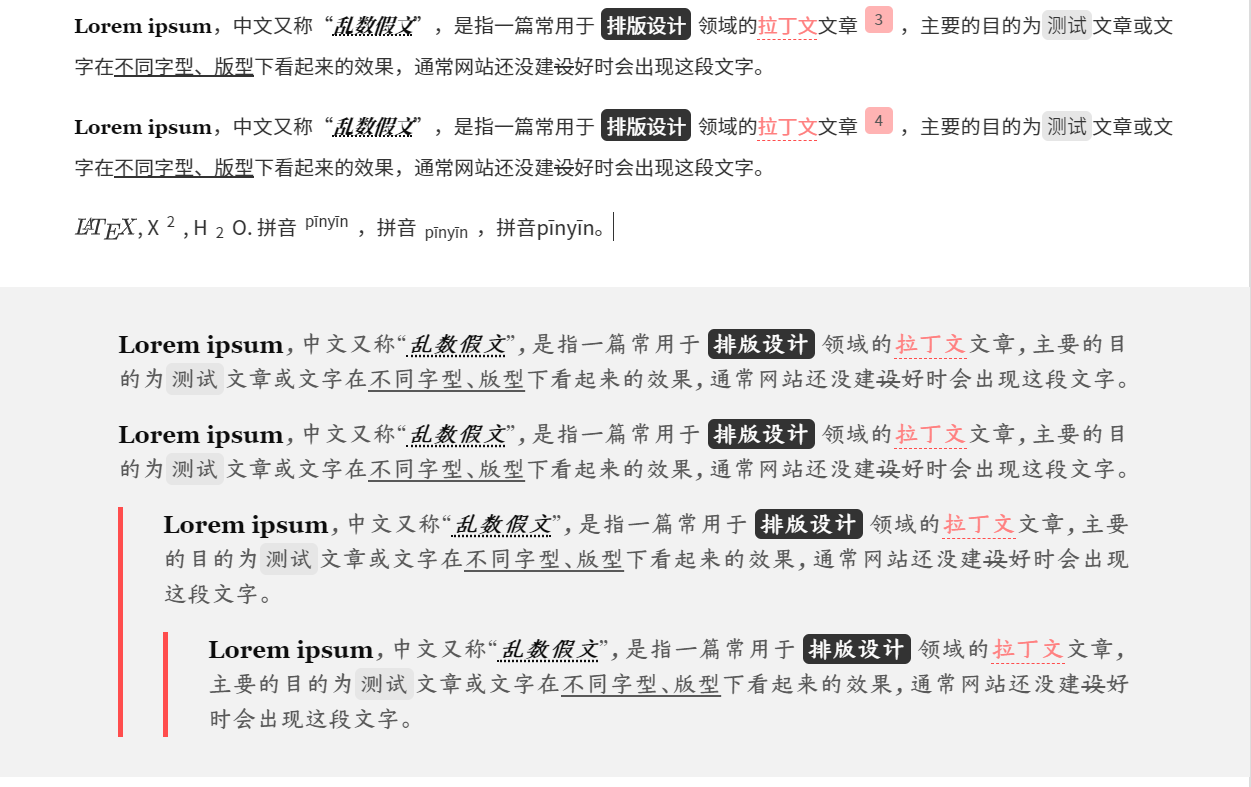
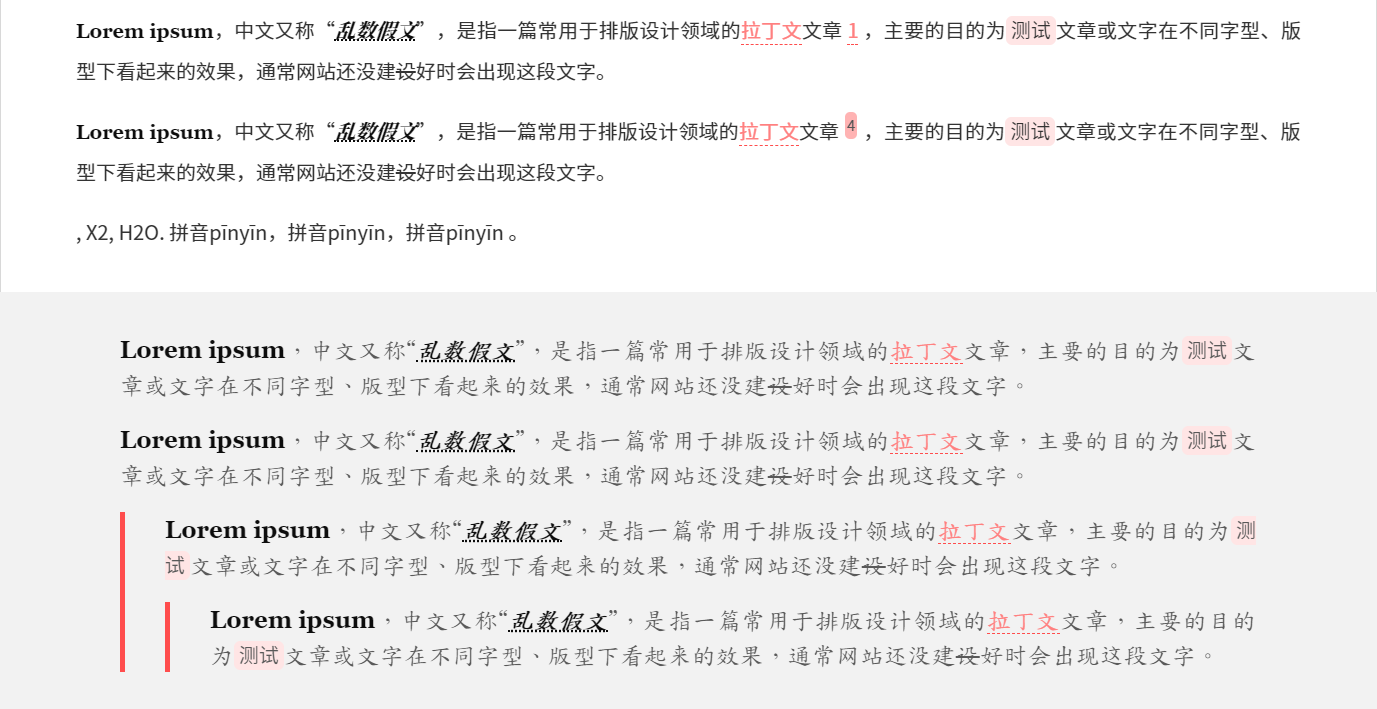
更新说明
✅更新了部分样式（待办事项等）；
✅更新了说明

Changed region(s): [[0.0624, 0.4034, 0.9353, 0.9309], [0.0624, 0.0, 0.9664, 0.3413], [0.9976, 0.0, 1.0, 0.3724]]

diff --git a/autumnus.css b/autumnus.css
@@ -60,7 +60,12 @@
 	--base-borderl: 4px solid hsl(0, 100%, 65%);
 	--base-borderb: 1px dashed hsl(0, 100%, 65%);
 	--opt-borderb: 1px dashed hsl(215, 100%, 65%);
-
+	
+    --box-shadow: 0px 20px 40px 1px hsla(0, 0%, 0%, 0.3);
+    --img-shadow: 0px 20px 40px 1px hsla(0, 0%, 0%, 0.3);
+    --code-shadow: 0px 20px 40px 1px hsla(0, 0%, 0%, 0.3);
+    --quota-shadow: 0px 20px 40px 1px hsla(0, 0%, 0%, 0.3);
+	
 	/* 字体样式援引自 font.css */
 	--base-font: -apple-system, "Noto Sans CJK SC", "Noto Sans", "Helvetica Neue", Helvetica, "Nimbus Sans L", Arial, "Liberation Sans", "Noto Sans CJK SC", "PingFang SC", "Hiragino Sans GB", "Source Han Sans SC", "Source Han Sans CN", "Microsoft YaHei", "Wenquanyi Micro Hei", "WenQuanYi Zen Hei", "ST Heiti", SimHei, "WenQuanYi Zen Hei Sharp", sans-serif;
 
@@ -114,7 +119,7 @@ content {
 /* 目录自动编号 */
 
 .md-toc {
-	font-size: 1rem;
+	font-size: 1.25rem;
 	line-height: 1.5rem;
 	display: table;
 	margin: auto;
@@ -177,7 +182,7 @@ content {
 }
 
 .md-toc-h1 {
-	font: 600 1.25em var(--title-font);
+	font: 600 1.5rem var(--title-font);
 	counter-increment: counter_md-toc-h1;
 	counter-reset: counter_md-toc-h2;
 }
@@ -389,12 +394,12 @@ h6 {
 
 #write h1::before {
 	top: -1.5rem;
-	border-bottom: var(--opt-borderb);
+	border-top: var(--opt-borderb);
 }
 
 #write h1::after {
 	top: 1.5rem;
-	border-bottom: var(--base-borderb);
+	border-top: var(--base-borderb);
 }
 
 #write h1,
@@ -539,11 +544,11 @@ mark {
 /* codeblock mac style */
 #write pre.md-fences {
 	border-top: 2rem solid var(--mark-color);
-	margin: 2rem auto;
+	margin: 3rem auto;
 	padding: 1rem 0.5rem 1rem;
 	display: block;
 	-webkit-overflow-scrolling: touch;
-	box-shadow: 0 10px 30px 0 rgba(0,0,0,0.4);
+	box-shadow: var(--code-shadow);
 }
 
 pre.md-fences:before {
@@ -634,7 +639,7 @@ ol {
 /* Chrome 29+ */
 @media screen and (-webkit-min-device-pixel-ratio:0) and (min-resolution:.001dpcm) {
 	.task-list-item input:before {
-		margin-top:.3rem;
+		margin-top: .3rem;
 	}
 
 	.task-list-item input:checked:before,
@@ -643,25 +648,30 @@ ol {
 	}
 }
 
-.md-task-list-item > input::before {
+.md-task-list-item > input {
+	margin-left: -1.5rem;
+	top: 5px;
+}
+
+.md-task-list-item>input::before {
 	content: "";
 	position: absolute;
-	top: -5px;
+	top: -10px;
 	left: -4px;
 	border-radius: 50%;
-	width: 1.1rem;
-	height: 1.1rem;
+	width: 1.3rem;
+	height: 1.3rem;
 	border: var(--base-border);
 	background: #fff;
 	-webkit-transition: background-color 200ms ease-in-out;
 	transition: background-color 200ms ease-in-out;
   }
   
-  .md-task-list-item > input::after {
+  .md-task-list-item>input::after {
 	content: "";
 	position: absolute;
-	top: 4px;
-	left: 0px;
+	top: 2px;
+	left: 2px;
 	width: 0.6rem;
 	height: 0.3rem;
 	border: 2px solid #fff;
@@ -674,12 +684,12 @@ ol {
 	transition: opacity 200ms ease-in-out;
   }
   
-  .md-task-list-item > input:checked::before {
+  .md-task-list-item>input:checked::before {
 	background-color: var(--link-color);
 	border: none;
   }
   
-  .md-task-list-item > input:checked::after {
+  .md-task-list-item>input:checked::after {
 	opacity: 1;
   }
   
@@ -739,7 +749,7 @@ hr {
 
 #write img {
 	margin: 40px auto;
-	box-shadow: 0px 20px 40px 1px hsla(0, 0%, 0%, 0.3);
+	box-shadow: var(--img-shadow);
 	border-radius: 5px;
 }
 
@@ -865,7 +875,7 @@ table {
 
 @media screen and (min-width: 1300px) {
 	#write {
-		box-shadow: 0px 2px 2px 2px hsla(0, 0%, 95%, 0.1), 1px 3px 5px 2px hsla(0, 0%, 85%, 0.2), 2px 4px 5px 2px hsla(0, 0%, 75%, 0.3), 3px 5px 10px 2px hsla(0, 0%, 65%, 0.4);
+		box-shadow: var(--box-shadow);
 		border-radius: 5px;
 	}
 }
@@ -926,7 +936,7 @@ table {
 		padding: 40px 60px;
 		background: var(--write-bg);
 		margin: 3rem auto 3rem;
-		border: 1px solid hsl(0, 0%, 87%);
+		border: none;
 		border-width: 0 1px;
 		border-radius: 5px;
 	}
@@ -1254,6 +1264,15 @@ p.mathjax-block,
 
 a.menu-style-btn:hover {
 	background: var(--active-bg);
+}
+
+#top-titlebar,
+#top-titlebar * {
+    background-color: var(--bg-color);
+}
+
+.megamenu-content {
+    background: var(--bg-color);
 }
 
 /* 标题 */

diff --git a/README.md b/README.md
@@ -16,6 +16,8 @@
 ## 安装
 
 >  建议安装的字体：思源黑体、思源宋体、更纱黑体（term sc），苍耳今楷05。
+>
+>  可选字体：Cascadia code、全字库楷体
 
 > 字体安装（没有区分 Noto 字体和 Sans Hans 字体）：
 >
@@ -33,12 +35,14 @@
 
 ![](typora-theme-review/color.png)
 
-<div style="display:none">
-<div style="display:flex;flex-wrap:wrap;color:#333;"><div style="background:rgb(235,235,235);height:6rem;width:15rem;"><p>rgb(235,235,235)</p></div><div style="background:#fffafa;height:6rem;width:15rem;"><p>#fffafa</p></div><div style="background:rgb(45,36,31);height:6rem;width:15rem;color:rgb(238,229,248)"><p>rgb(45,36,31)</p></div></div>
-<div style="display:flex;flex-wrap:wrap;color:#333;"><div style="background:hsl(0,0%,5%);height:6rem;width:15rem;color:rgb(238,229,248)"><p>hsl(0,0%,5%)</p></div><div style="background:hsl(0,0%,20%);height:6rem;width:15rem;color:rgb(238,229,248)"><p>hsl(0,0%,20%)</p></div><div style="background:hsl(0,0%,35%);height:6rem;width:15rem;color:rgb(238,229,248)"><p>hsl(0,0%,35%)</p></div><div style="background:hsl(0,0%,50%);height:6rem;width:15rem;color:rgb(238,229,248)"><p>hsl(0,0%,50%)</p></div><div style="background:hsl(0,0%,75%);height:6rem;width:15rem;"><p>hsl(0,0%,75%)</p></div><div style="background:hsl(0,0%,80%);height:6rem;width:15rem;"><p>hsl(0,0%,80%)</p></div><div style="background:hsl(0,0%,90%);height:6rem;width:15rem;"><p>hsl(0,0%,90%)</p></div><div style="background:hsl(0,0%,95%);height:6rem;width:15rem;"><p>hsl(0,0%,95%)</p></div><div style="background:hsl(0,0%,98%);height:6rem;width:15rem;"><p>hsl(0,0%,98%)</p></div><div style="background:hsl(0,0%,99%);height:6rem;width:15rem;"><p>hsl(0,0%,99%)</p></div><div style="background:hsl(0,0%,100%);height:6rem;width:15rem;"><p>hsl(0,0%,100%)</p></div></div>
-<div style="display:flex;flex-wrap:wrap;color:#333;"><div style="background:hsl(0,100%,65%);height:6rem;width:15rem;"><p>hsl(0,100%,65%)</p></div><div style="background:hsl(0,100%,75%);height:6rem;width:15rem;"><p>hsl(0,100%,75%)</p></div><div style="background:hsl(215,100%,65%);height:6rem;width:15rem;"><p>hsl(215,100%,65%)</p></div><div style="background:hsl(215,100%,75%);height:6rem;width:15rem;"><p>hsl(215,100%,75%)</p></div><div style="background:hsl(70, 100%, 65%);height:6rem;width:15rem;"><p>hsl(70, 100%, 65%)</p></div><div style="background:hsl(70, 100%, 75%);height:6rem;width:15rem;"><p>hsl(70, 100%, 75%)</p></div></div></div>
-
 ## 更新日志
+
+2020-09-03——`UPDATE`
+
++ 调整了代办事项样式。
++ 调整了代码块样式(仿macOS)。
++ 调整了标题和内容的距离。
++ 修复了部分错误。
 
 2020-08-19——`UPDATE`
 
